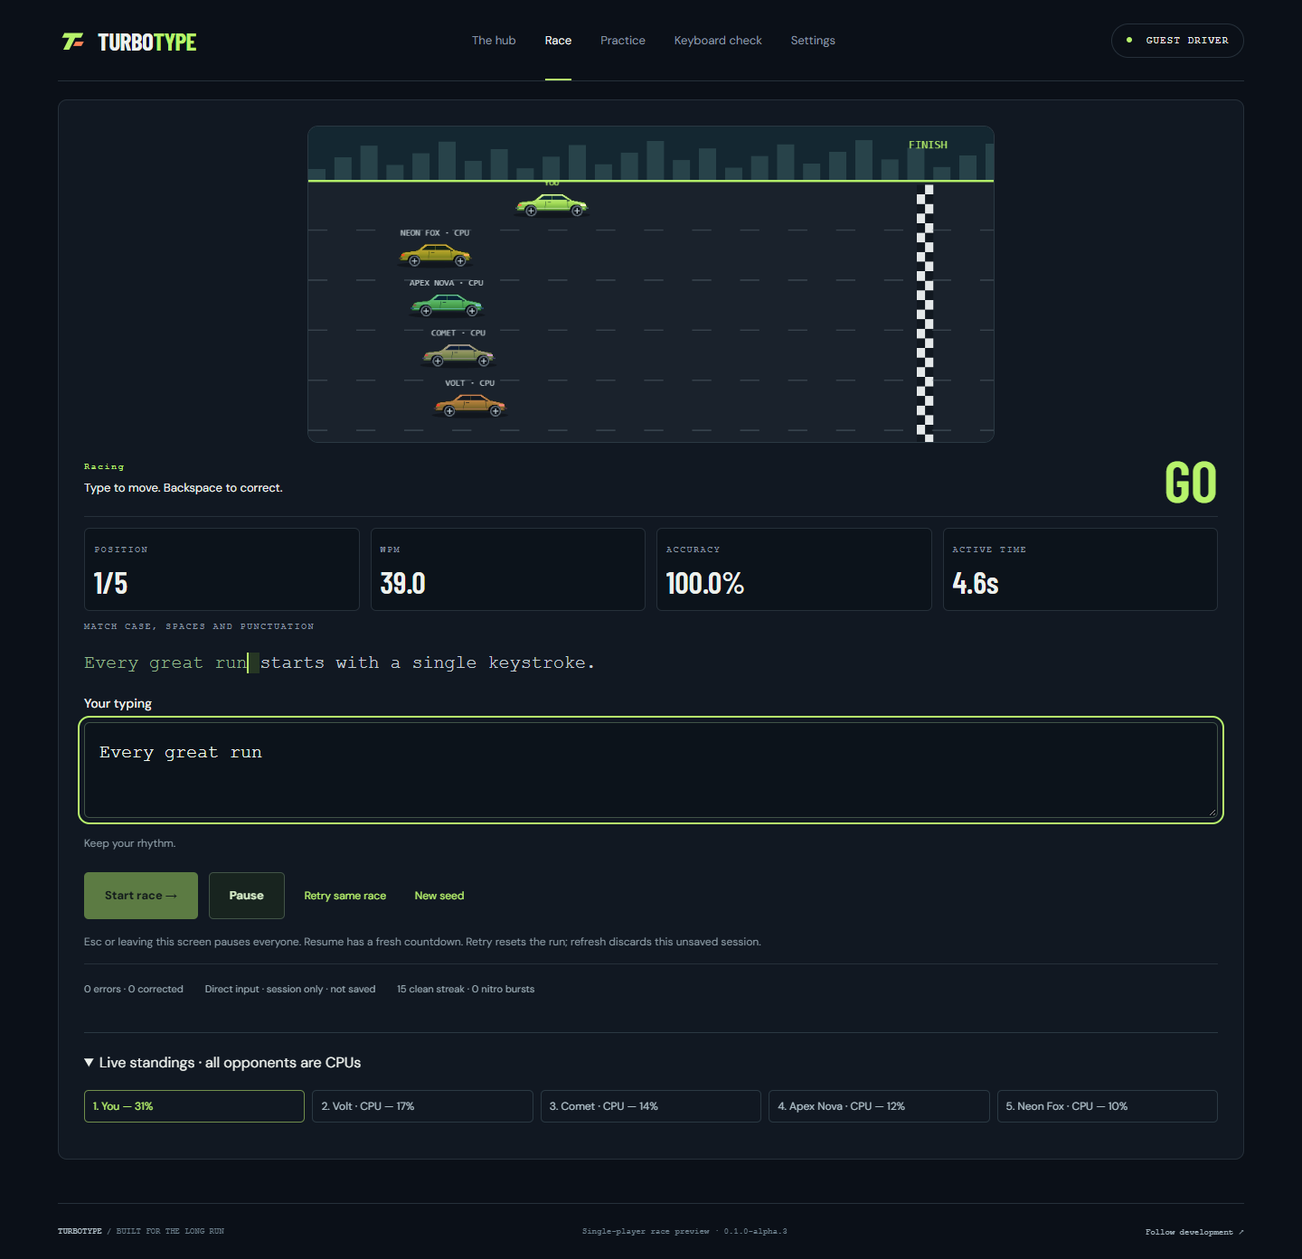
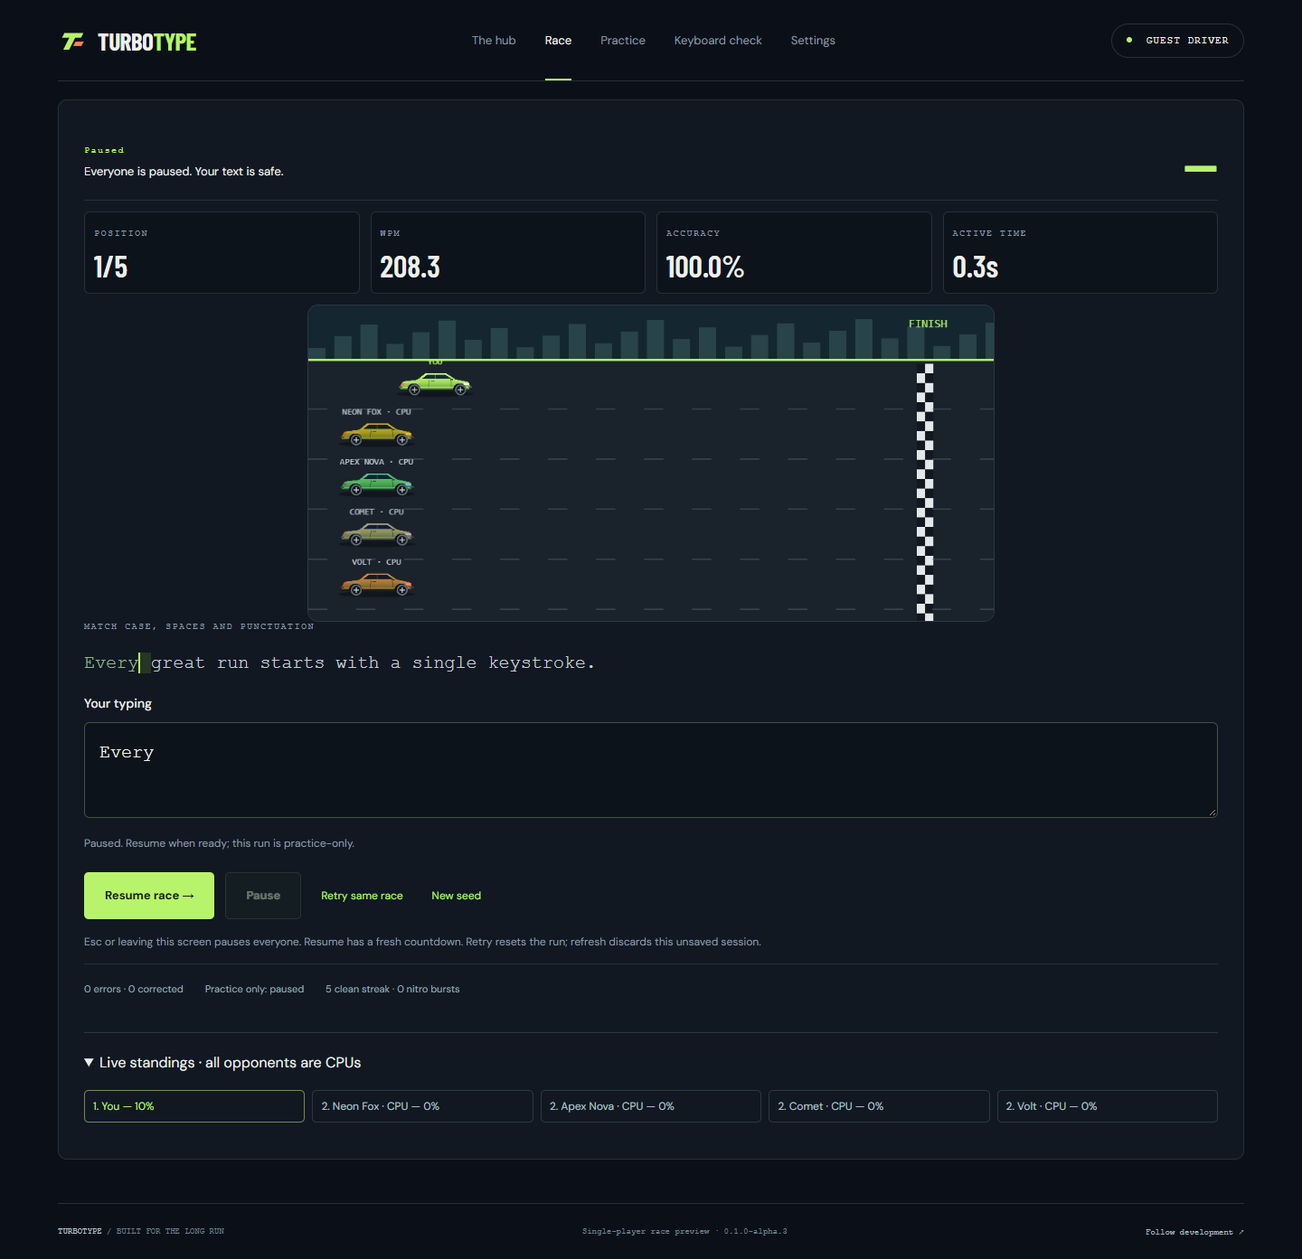
Move race metrics above the track

diff --git a/src/ui/quick-race.ts b/src/ui/quick-race.ts
@@ -47,7 +47,6 @@ export function quickRaceScreen(): string {
       <div><label for="race-seed">Race seed</label><input id="race-seed" type="number" min="0" max="4294967295" step="1" inputmode="numeric" required aria-describedby="setup-help" /></div>
     </div>
     <p id="setup-help" class="help race-setup">Targets are before reaction, hesitation and correction delays. This is Quick Race, not campaign levels. The same passage, pace and seed replay the same CPU schedules. Pauses or assisted input make a run practice-only. No rewards or results are saved yet.</p>
-    <div class="race-visual"><div id="race-track" role="img" aria-label="Five-lane race track; exact positions are listed below"></div><div class="track-bottom"><span id="race-track-status" role="status">Loading race track…</span><button id="retry-race-track" class="text-button" hidden>Retry artwork</button><button id="text-race" class="text-button" hidden>Race with text standings</button></div></div>
     <div class="run-banner"><div><p id="race-state" class="eyebrow" role="status">Ready</p><p id="race-instruction">Wait for the track, then start the countdown.</p></div><span id="race-countdown" class="countdown" aria-hidden="true">—</span></div>
     <div class="race-hud metrics-grid">${[
       ["place", "POSITION"],
@@ -60,6 +59,7 @@ export function quickRaceScreen(): string {
           `<div><span class="micro">${label}</span><strong id="race-${id}">—</strong></div>`,
       )
       .join("")}</div>
+    <div class="race-visual"><div id="race-track" role="img" aria-label="Five-lane race track; exact positions are listed below"></div><div class="track-bottom"><span id="race-track-status" role="status">Loading race track…</span><button id="retry-race-track" class="text-button" hidden>Retry artwork</button><button id="text-race" class="text-button" hidden>Race with text standings</button></div></div>
     <label id="race-passage-label" class="micro">MATCH CASE, SPACES AND PUNCTUATION</label><p id="race-passage" class="race-passage" aria-labelledby="race-passage-label"></p>
     <label for="race-input">Your typing</label><textarea id="race-input" rows="2" readonly autocomplete="off" autocorrect="off" autocapitalize="off" spellcheck="false" aria-describedby="race-notice race-controls-help" placeholder="Start the race, then type after GO…"></textarea>
     <p id="race-notice" class="help" role="status">One mistake stops progress. Backspace corrects it.</p>

diff --git a/src/styles.css b/src/styles.css
@@ -1059,11 +1059,14 @@ textarea[aria-invalid="true"] {
   overflow: hidden;
 }
 #race-track {
+  position: relative;
   aspect-ratio: 1000 / 460;
   width: 100%;
   background: #142731;
 }
 #race-track canvas {
+  position: absolute;
+  inset: 0;
   display: block;
 }
 .race-setup input {

diff --git a/PROJECT_STATUS.md b/PROJECT_STATUS.md
@@ -6,9 +6,9 @@ Last reviewed: 20 October 2026. This file is the persistent status source for fu
 
 ## Current position
 
-**Phases 1–3: complete for their agreed scopes, with documented release-test exceptions. Phase 4: playable race implemented and automatically verified; available-device acceptance pending TT-404.** Current branch `feat/solo-race` adds Quick Race with four seeded CPUs, a five-lane Phaser track, exact standings/results, retry and graphics recovery. Local formatting/types/build, 69 unit tests and 54 Chromium profile checks pass. Phase 2/3 PRs are merged into main baseline `08cddb4`; Phase 4 implementation `e4e664d` is under review in [PR #3](https://github.com/sahilshah2904/TurboType/pull/3); hosted Linux checks passed in [run 39441154770](https://github.com/sahilshah2904/TurboType/actions/runs/39441154770).
+**Phases 1–3: complete for their agreed scopes, with documented release-test exceptions. Phase 4: complete for agreed scope, with ASUS/Samsung user acceptance recorded (TT-404).** Current branch `feat/solo-race` adds Quick Race with four seeded CPUs, a five-lane Phaser track, exact standings/results, retry and graphics recovery. Local formatting/types/build, 69 unit tests and 54 Chromium profile checks pass. Phase 2/3 PRs are merged into main baseline `08cddb4`; Phase 4 implementation `e4e664d` is under review in [PR #3](https://github.com/sahilshah2904/TurboType/pull/3); hosted Linux checks passed in [run 39441154770](https://github.com/sahilshah2904/TurboType/actions/runs/39441154770).
 
-The ASUS/Samsung Phase 3 acceptance closes TT-305, but did not test this new race scene. Follow docs/PHASE4_RACE_TESTS.md for TT-404. Physical iPhone/tablet coverage and missing browser/OS/keyboard metadata remain release-gate TT-1008. Cloud saves, modern car art, music, campaigns and public deployment remain future work. See docs/TESTING.md for actual evidence.
+The user reported all five requested Phase 4 race checks working on ASUS/Samsung, including typing/correction, pause/resume, finish/retry and phone keyboard/rotation. TT-404 is closed on that report. They requested metrics above the race so the course leads directly into passage/input; that layout adjustment is included in the current PR. Phase 5 has not started. Physical iPhone/tablet coverage and missing browser/OS/keyboard metadata remain release-gate TT-1008. Cloud saves, modern car art, music, campaigns and public deployment remain future work. See docs/TESTING.md for actual evidence.
 
 “Design baseline complete” means all major systems have defined behavior and a delivery/verification plan. It does not mean every passage is authored, balancing is playtested, every technical detail is fixed, or any feature is implemented. Defaults may change through documented decisions when implementation exposes evidence.
 
@@ -21,7 +21,7 @@ Latest scope update: phones/tablets/laptops are first-release targets. Design ac
 | 1 | Finalize design | Baseline complete | Game plan, research, reference analysis, engineering conventions, and RULES_AND_STORAGE_BASELINE.md; tuning and production work explicitly separated |
 | 2 | Set up application | Foundation complete, with exceptions | Code/local/CI checks and available ASUS/Samsung checks recorded. TT-204 closed with word-completion work moved to TT-305 and unavailable iOS/tablet verification to TT-1008; not blanket device certification |
 | 3 | Build typing engine | Complete for agreed scope | TT-301–305 implemented/verified, 48 unit/39 browser checks and user-reported ASUS/Samsung strict-input acceptance; broader device evidence remains TT-1008 |
-| 4 | Complete playable race | Implemented and automatically verified; user acceptance pending | TT-401–403 complete, 69 unit and 54 browser tests pass; TT-404 requires ASUS/Samsung race/keyboard-space check |
+| 4 | Complete playable race | Complete for agreed scope | TT-401–404 complete: core/browser evidence and user-reported ASUS/Samsung race checks; requested metrics-above-track layout included |
 | 5 | Polish racing experience | Not started | Detailed cars, effects, scenery and audio profiled in an actual race |
 | 6 | Opening and onboarding | Not started | Entrance/loading, rules, interactive tutorial/calibration and hub verified on first and returning visits |
 | 7 | Campaign maps | Not started | Three rightward 100-node maps, locks, accessibility, saved location/progress |
@@ -53,7 +53,9 @@ Phases 2–10 may overlap where dependencies require it: for example, save setti
 - User accepted Phase 3 after reporting all requested laptop/phone tests working and supplying five laptop screenshots. TT-305 is complete by this available-device report. Normal textarea resizing was observed and retained. Fixed the stale paused notice visible after timed expiry; transition messages now match countdown/racing/final states, with regression coverage (TT-306). Phase 4 implementation has not started.
 
 - Merged foundation PR #1 (`3cd9dd9`) and typing PR #2 (`08cddb4`) into main after successful head checks, preserving history. Phase 4 branch `feat/solo-race` starts from that main baseline. No Pages deployment occurred.
-- Implemented seeded four-CPU Quick Race, shared active clock, live five-lane scene/standings, final simulated CPU outcomes, optional 60-second DNF, pause/navigation preservation, same-seed retry and graphics/context-loss recovery. App 0.1.0-alpha.3 / rules 3; original prototype art retained. Local formatting/types/build, 69 unit and 54 Chromium profile checks pass. Visually inspected desktop/phone race layouts; this is not physical-keyboard or measured frame-rate certification. Detailed recreation and the pending TT-404 user check are in docs/QUICK_RACE.md and docs/PHASE4_RACE_TESTS.md.
+- Implemented seeded four-CPU Quick Race, shared active clock, live five-lane scene/standings, final simulated CPU outcomes, optional 60-second DNF, pause/navigation preservation, same-seed retry and graphics/context-loss recovery. App 0.1.0-alpha.3 / rules 3; original prototype art retained. Local formatting/types/build, 69 unit and 54 Chromium profile checks pass. Visually inspected desktop/phone race layouts; this is not physical-keyboard or measured frame-rate certification. Detailed recreation and the accepted TT-404 user-check procedure are in docs/QUICK_RACE.md and docs/PHASE4_RACE_TESTS.md.
+
+- User accepted all five requested Phase 4 checks on ASUS/Samsung and supplied a paused-race laptop screenshot. Closed TT-404 on the available-device report, retaining broader device/metadata release gates. Moved status/metrics above the course, leaving track → passage → typing unobstructed. The current three short exercise passages remain a functional preview; longer progressive campaign content is Phase 8, with learning goals and reviewed lengths already planned.
 
 ## Remaining design and production work
 

diff --git a/docs/QUICK_RACE.md b/docs/QUICK_RACE.md
@@ -6,7 +6,7 @@ Implemented in Phase 4, app 0.1.0-alpha.3, rules version 3. This is a playable l
 
 Follow [SETUP.md](SETUP.md), use `feat/solo-race` while its PR is under review, and open `/TurboType/#/race`. Select First keystroke, easy, untimed, seed `42`. Start after the track reports ready, then type after 3–2–1. Repeat those four inputs for exactly the same CPU schedules. Real player results still depend on their actual input/timing; the seed is not a player replay. Retry same race resets attempts/time while preserving this configuration. New seed increments the unsigned seed, wrapping 4294967295 to 0.
 
-All three original practice passages are available; these are exercises, not authored campaign levels. Quick Race opponent tiers are independent of future campaign learning categories:
+All three original practice passages are available; these are short exercises for race-engine verification, not authored campaign levels. The planned campaign will introduce longer passages gradually (see GAME_DESIGN_PLAN.md and Phase 8 tasks), while early learning stages stay approachable. Changing opponent pace affects CPU speed, not passage length. Quick Race opponent tiers are independent of future campaign learning categories:
 
 | Pace tier | Target WPM before delays |
 | --- | --- |
@@ -42,10 +42,10 @@ Rank by exact finish time, then unfinished progress; exact ties share competitio
 
 Do not enable Start until artwork is ready or the user explicitly chooses text standings after failure. Missing art, import failure, a 12-second loading watchdog or WebGL context loss exposes Retry artwork and Race with text standings. A graphics failure during racing pauses the core. Text mode uses identical rules/schedules and is not selected silently. Retrying graphics preserves the paused/result session. Generation guards, listener aborts, timeout/interval cleanup, ResizeObserver disconnection and Phaser destruction prevent late mounts or extra scenes after navigation.
 
-Active layout hides setup/decorative headings, caps the desktop track width and compacts mobile metrics/navigation. Large-text preferences remain respected; native textarea vertical resizing remains available. Text standings and results are semantic DOM, independent of canvas readability. Native keyboard viewport/rotation still needs the available-device check below; emulation is not hardware certification.
+Status and metrics appear above the track; the course leads directly into the passage and typing field. This order follows the user's race-visibility feedback. The canvas is positioned inside a relative aspect-ratio container so its previous dimensions cannot impose an old intrinsic height after setup compacts. Active layout hides setup/decorative headings, caps the desktop track width and compacts mobile metrics/navigation. Large-text preferences remain respected; native textarea vertical resizing remains available. Text standings and results are semantic DOM, independent of canvas readability. Native keyboard viewport/rotation still needs the available-device check below; emulation is not hardware certification.
 
 ## Verification and next checks
 
 `npm run check` validates types, formatting, pure behavioral tests, build and Chromium profile flows. New tests cover reproducibility, seed bounds, character/finish boundaries, frame-independent progress, all-CPU-first continuation, pause/countdown exclusion, frozen/projected outcomes, timed/abandoned DNFs, retry, graphics recovery/context loss, navigation cleanup and narrow layouts. Actual run evidence lives in [TESTING.md](TESTING.md).
 
-Before Phase 4 user acceptance, follow [PHASE4_RACE_TESTS.md](PHASE4_RACE_TESTS.md) on ASUS/Samsung (TT-404). Physical iPhone/tablet and broader browser/performance coverage remain TT-1008/Phase 10. No Phase 3 acceptance is retroactively presented as testing this new scene. Future rewards/storage, cloud accounts, cinematic art/audio, 300 campaign levels and multiplayer remain tracked in [BACKLOG.md](../BACKLOG.md).
+The user accepted the five requested ASUS/Samsung race checks (TT-404); [PHASE4_RACE_TESTS.md](PHASE4_RACE_TESTS.md) retains the procedure. Physical iPhone/tablet and broader browser/performance coverage remain TT-1008/Phase 10. No Phase 3 acceptance is retroactively presented as testing this new scene. Future rewards/storage, cloud accounts, cinematic art/audio, 300 campaign levels and multiplayer remain tracked in [BACKLOG.md](../BACKLOG.md).

diff --git a/docs/TESTING.md b/docs/TESTING.md
@@ -10,7 +10,9 @@ New browser flows complete and retry an actual five-lane race, verify pre-GO inp
 
 Visually inspected ready/active desktop and active phone captures from the actual dev app. Initial active layout put typing too far below the course; active controls/headings were compacted and desktop track width capped. At 1440×1000, input starts near 799px; at 390×844 near 448px. Document width matches those viewports, and automated narrow checking covers 320px. Actual software-keyboard occlusion/rotation still needs TT-404. Prototype car/scenery are deliberately retained for Phase 5; current canvas labels are supplemented by readable DOM standings. No actual fps, input latency, WebKit/Safari, iPhone or physical tablet coverage is claimed.
 
-**Pending TT-404:** [available-device race checks](PHASE4_RACE_TESTS.md) on ASUS/Samsung. Earlier Phase 3 acceptance did not test this new scene. Broader hardware/browser/performance requirements remain TT-1008/Phase 10. No rewards/results are stored, no cloud or multiplayer exists and no Pages site was deployed. See [Quick Race recreation](QUICK_RACE.md) and [ADR 0004](adr/0004-solo-race-schedules-and-results.md).
+**TT-404 accepted by user report:** after receiving the five-step race checklist, the user said all listed cases worked on ASUS/Samsung and supplied a laptop paused-race screenshot. This records the user report for movement/correction, shared pause/resume, frozen results/retry and phone keyboard/rotation (including the listed optional timeout check as part of their all-cases confirmation); no native event trace or exact environment versions were supplied. The screenshot supports the visible paused state, not every reported interaction. [Available-device procedure](PHASE4_RACE_TESTS.md) remains reproducible. The user also requested metrics above the course; TT-405 moves the DOM order to status/metrics → track → passage → input, keeping CPU/rule semantics unchanged. Short preview passages are intentional; progressive campaign text remains Phase 8. Broader hardware/browser/performance requirements remain TT-1008/Phase 10. No rewards/results are stored, no cloud or multiplayer exists and no Pages site was deployed. See [Quick Race recreation](QUICK_RACE.md) and [ADR 0004](adr/0004-solo-race-schedules-and-results.md).
+
+Layout follow-up (TT-405): moved status/metrics above the track so the course leads straight to passage/input. Absolute canvas positioning inside its relative aspect-ratio parent prevents an old canvas height expanding the compact container. Desktop/phone captures verify the actual bounding-box order without overlap or horizontal overflow (1440px/390px). Production build and types pass. An initial targeted browser run timed out while concurrent GPU screenshot work was running; it was stopped. After the sizing fix, the isolated `npx playwright test tests/browser/quick-race.spec.ts --workers=1` completed successfully with 15/15 checks across desktop/phone/tablet profiles. The earlier full 69-unit/54-browser evidence remains historical for the original implementation; this layout follow-up uses focused verification.
 
 The existing Windows shell AutoRun diagnostic still appears in nested scripts; all recorded final commands exit 0. The separately lazy Phaser chunk remains about 1.37 MB minified / 357 kB gzip; the app chunk is about 83 kB / 29 kB gzip. This is build size evidence, not a hardware performance claim.
 

diff --git a/BACKLOG.md b/BACKLOG.md
@@ -39,7 +39,9 @@ Completion evidence for TT-301–304: `src/core/typing-engine.ts`, `standings.ts
 
 Evidence for TT-401–403: `src/core/cpu-schedule.ts`, `solo-race.ts`, `src/ui/quick-race.ts`, `src/game/race-track.ts`, documented rules/recreation and ADR 0004; local `npm run check` passes with 69 unit tests and 54 Chromium profile checks on `feat/solo-race`. Implementation commit `e4e664d`, PR #3. User acceptance of the new race is separately TT-404.
 
-- [ ] TT-404: Verify the implemented Quick Race on the available ASUS laptop/Samsung S25 Ultra: start/actual vehicle progress, correction while CPUs continue, all-lane pause/navigation preservation, keyboard space/rotation, frozen results/simulation labels and retry. Follow docs/PHASE4_RACE_TESTS.md. Required for Phase 4 user acceptance; physical iOS/tablet and broader performance remain TT-1008/Phase 10.
+- [x] TT-404: Verify the implemented Quick Race on the available ASUS laptop/Samsung S25 Ultra: start/actual vehicle progress, correction while CPUs continue, all-lane pause/navigation preservation, keyboard space/rotation, frozen results/simulation labels and retry. Follow docs/PHASE4_RACE_TESTS.md. Completed by user report on 20 October 2026: all five requested cases worked on ASUS/Samsung, with a supplied paused-race laptop screenshot. Exact browser/OS/keyboard versions and event traces were not supplied; physical iOS/tablet and broader performance remain TT-1008/Phase 10.
+
+- [x] TT-405: Apply user-requested race reading order: status/metrics above track, then passage and typing field directly below. Also contain the canvas inside its aspect-ratio parent so compacting the screen does not retain the old intrinsic canvas height. CPU schedules, rules and exercise lengths are unchanged. See docs/TESTING.md for verification.
 
 ## Phase 5 — racing polish
 

diff --git a/CHANGELOG.md b/CHANGELOG.md
@@ -8,7 +8,8 @@ Working on feat/solo-race from merged main baseline 08cddb4; not a tagged or dep
 - Added four immutable seeded per-character CPU schedules with declared tiers, reaction/hesitation/correction delays and frame-independent progress.
 - Added a five-lane Phaser race driven by the shared typing clock, exact live standings, frozen final results, explicitly simulated later CPU outcomes, timed DNFs, same-seed retry and new-seed selection. Rules version is 3; existing typing rules are unchanged.
 - Added loading/context-loss recovery, a 12-second watchdog and explicit text racing, plus navigation cleanup and compact active desktop/mobile layouts. Original prototype art remains until Phase 5. No rewards/results are saved.
-- Added 21 unit cases and 15 browser profile cases; the full local check passes (69 unit and 54 browser tests). Available-device race acceptance is tracked in TT-404. Exact verification evidence is in docs/TESTING.md.
+- Added 21 unit cases and 15 browser profile cases; the full local check passes (69 unit and 54 browser tests). Available-device race checks accepted by ASUS/Samsung user report (TT-404).
+- Moved race status/metrics above the track at the user's request, so the course leads directly into passage and input; corrected intrinsic canvas sizing after compaction. Short verification passages remain unchanged. Exact verification evidence is in docs/TESTING.md.
 
 ## 0.1.0-alpha.2 — typing practice, 20 October 2026
 

diff --git a/README.md b/README.md
@@ -2,7 +2,7 @@
 
 An immersive typing racer: race computer opponents, improve accuracy and speed, and advance through Easy, Medium, and Hard campaigns with 100 levels each.
 
-**Status:** Phase 4 Quick Race implemented on `feat/solo-race`: four seeded CPUs, live track/standings, finish/results and retry. Phase 2/3 are merged into main. Local formatting/types/build, 69 unit tests and 54 browser tests pass. Phase 4 available-device acceptance remains TT-404. Broader physical iPhone/tablet coverage remains a release gate. Campaigns, modern art/audio, persistent rewards and public deployment are future work. See TESTING.md through the documentation links below. Source repository: [sahilshah2904/TurboType](https://github.com/sahilshah2904/TurboType).
+**Status:** Phase 4 Quick Race implemented on `feat/solo-race`: four seeded CPUs, live track/standings, finish/results and retry. Phase 2/3 are merged into main. Local formatting/types/build, 69 unit tests and 54 browser tests pass. Phase 4 available-device checks passed by ASUS/Samsung user report (TT-404). Broader physical iPhone/tablet coverage remains a release gate. Campaigns, modern art/audio, persistent rewards and public deployment are future work. See TESTING.md through the documentation links below. Source repository: [sahilshah2904/TurboType](https://github.com/sahilshah2904/TurboType).
 
 ## Run the preview
 

diff --git a/docs/PHASE4_RACE_TESTS.md b/docs/PHASE4_RACE_TESTS.md
@@ -1,6 +1,6 @@
 # Phase 4 available-device race check
 
-Pending user verification (TT-404). Use the ASUS laptop and Samsung S25 Ultra; unavailable iPhone/tablet tests remain release work. Do not repeat every Phase 3 typing test: this round checks the new race integration and actual keyboard space.
+Accepted by user report on 20 October 2026 (TT-404): all five requested race checks worked on ASUS/Samsung, with a supplied laptop paused-race screenshot. Exact environment versions remain unspecified. Keep this checklist for future regression checks. Use the ASUS laptop and Samsung S25 Ultra; unavailable iPhone/tablet tests remain release work. Do not repeat every Phase 3 typing test: this round checks the new race integration and actual keyboard space.
 
 1. Open `/TurboType/#/race` in the current preview (footer 0.1.0-alpha.3). On Samsung use the printed **http** Network URL and the same Wi-Fi. Wait for the track to load. Start with easy, First keystroke, untimed, seed 42.
 2. Start the race. Before GO, typing should not count. After GO, correct typing should move your car and update the live list. Enter one wrong letter: your progress should stop until Backspace correction while the CPUs continue. There should be four explicitly labeled CPU opponents.

diff --git a/docs/adr/0004-solo-race-schedules-and-results.md b/docs/adr/0004-solo-race-schedules-and-results.md
@@ -1,6 +1,6 @@
 # 0004 — One active clock and seeded CPU schedules
 
-Date: 20 October 2026. Status: implemented; available-device race acceptance remains TT-404.
+Date: 20 October 2026. Status: implemented; available-device race checks accepted by ASUS/Samsung user report (TT-404).
 
 ## Context
 
